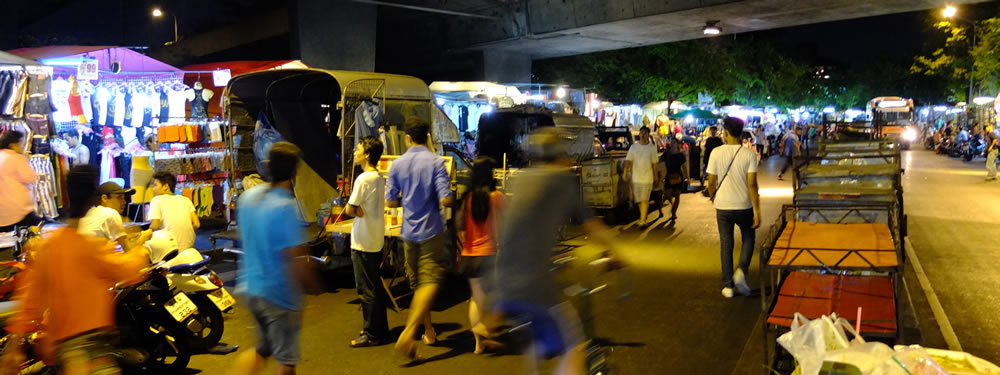
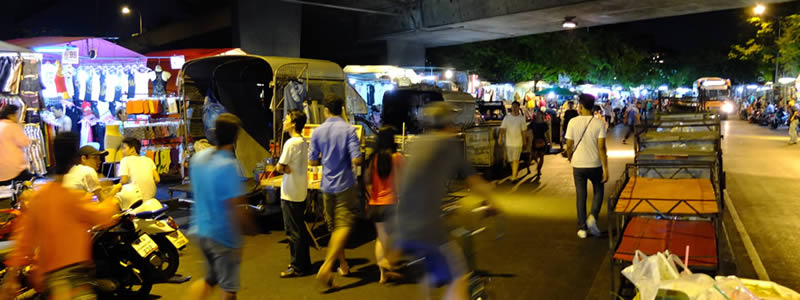
Resizing header images and adding one for WIP blog post

diff --git a/src/styles/styles.less b/src/styles/styles.less
@@ -190,6 +190,10 @@ a {
 			}
 		}
 
+		.header-image {
+			margin-top: 0;
+		}
+
 		&.has-link {
 			cursor: pointer;
 
